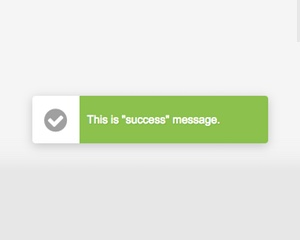
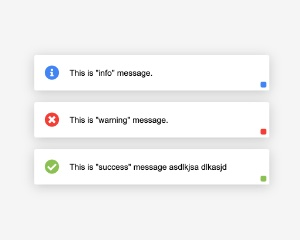
Added a new version of `j-Notify`.

diff --git a/j-Notify/component.js b/j-Notify/component.js
@@ -1,30 +1,34 @@
-COMPONENT('notify', 'timeout:3000;position:bottom', function(self, config) {
+COMPONENT('notify', 'timeout:3000;position:top-right', function(self, config, cls) {
 
+	var cls2 = '.' + cls;
+	var istop = false;
 	var autoclosing;
 
 	self.singleton();
 	self.readonly();
-	self.nocompile && self.nocompile();
-	self.template = Tangular.compile('<div class="ui-notify ui-notify-{{ type }}" data-id="{{ id }}"><div class="ui-notify-icon"><i class="fa {{ icon }}"></i></div><div class="ui-notify-message">{{ message | raw }}</div>');
+	self.nocompile();
+
+	self.template = Tangular.compile('<div class="{0} {0}-{{ type }} {0}-hidden" data-id="{{ id }}"><figure><div class="{0}-dot"></div><div class="{0}-icon"><i class="fa {{ icon }}"></i></div><div class="{0}-message">{{ message | raw }}</div></figure></div>'.format(cls));
 	self.items = {};
 
 	self.make = function() {
 
-		self.aclass('ui-notify-container');
+		self.aclass(cls + '-container');
 
-		self.event('click', '.ui-notify', function() {
+		self.event('click', cls2, function() {
 			var el = $(this);
-			self.close(+el.attrd('id'));
+			self.close(el.attrd('id'));
 			clearTimeout(autoclosing);
 			autoclosing = null;
 			self.autoclose();
 		});
 	};
 
-	self.configure = function(key, value, init) {
+	self.configure = function(key, value) {
 		if (key === 'position') {
-			var cls = 'ui-notify-container-';
-			self.rclass2(cls).aclass(cls + value.replace(/_|\s/, '-'));
+			var c = cls + '-container-';
+			self.rclass2(c).aclass(c + value.replace(/_|\s/, '-'));
+			istop = value.indexOf('top') !== -1;
 		}
 	};
 
@@ -33,13 +37,66 @@ COMPONENT('notify', 'timeout:3000;position:bottom', function(self, config) {
 		if (obj) {
 			delete self.items[id];
 			var item = self.find('div[data-id="{0}"]'.format(id));
-			item.aclass('ui-notify-hide');
-			setTimeout(function() {
+			item.find('figure').empty();
+			item.animate({ height: 0 }, 300, function() {
 				item.remove();
-			}, 600);
+			});
 		}
 	};
 
+	self.response = function(message, callback, response) {
+
+		var fn;
+
+		if (typeof(message) === 'function') {
+			response = callback;
+			fn = message;
+			message = null;
+		} else if (typeof(callback) === 'function')
+			fn = callback;
+		else {
+			response = callback;
+			fn = null;
+		}
+
+		if (response instanceof Array) {
+			var builder = [];
+			for (var i = 0; i < response.length; i++) {
+				var err = response[i].error;
+				err && builder.push(err);
+			}
+			self.append(builder.join('<br />'), 2);
+			SETTER('!loading/hide');
+		} else if (typeof(response) === 'string') {
+			self.append(response, 2);
+			SETTER('!loading/hide');
+		} else {
+
+			if (message) {
+				if (message.length < 40 && message.charAt(0) === '?')
+					SET(message, response);
+				else
+					self.append(message, 1);
+			}
+
+			if (typeof(fn) === 'string')
+				SET(fn, response);
+			else if (fn)
+				fn(response);
+		}
+	};
+
+	self.warning = function(message) {
+		self.append(message, 2);
+	};
+
+	self.success = function(message) {
+		self.append(message, 1);
+	};
+
+	self.info = function(message) {
+		self.append(message, 3);
+	};
 
 	self.append = function(message, type) {
 
@@ -58,13 +115,29 @@ COMPONENT('notify', 'timeout:3000;position:bottom', function(self, config) {
 				break;
 		}
 
+		var icon;
+
+		if (message.charAt(0) === '"') {
+			var index = message.indexOf('"', 1);
+			icon = self.faicon(message.substring(1, index).trim());
+			message = message.substring(index + 1).trim();
+		}
+
 		// type 1: success
 		// type 2: warning
+		// type 3: info
 
-		var obj = { id: Math.floor(Math.random() * 100000), message: message, type: type, icon: type === 1 ? 'fa-check-circle' : type === 2 ? 'fa-times-circle' : 'fa-info-circle' };
+		var obj = { id: Math.floor(Math.random() * 100000).toString(36), message: message, type: type, icon: icon || (type === 1 ? 'fa-check-circle' : type === 2 ? 'fa-times-circle' : 'fa-info-circle') };
 		self.items[obj.id] = obj;
-		self.element.append(self.template(obj));
+		var el = $(self.template(obj));
+		if (istop)
+			self.element.append(el);
+		else
+			self.element.prepend(el);
 		self.autoclose();
+		setTimeout(function() {
+			el.rclass(cls + '-hidden');
+		}, 20);
 	};
 
 	self.autoclose = function() {
@@ -75,9 +148,10 @@ COMPONENT('notify', 'timeout:3000;position:bottom', function(self, config) {
 		autoclosing = setTimeout(function() {
 			clearTimeout(autoclosing);
 			autoclosing = null;
-			var el = self.find('.ui-notify');
+			var el = self.find(cls2);
 			el.length > 1 && self.autoclose();
-			el.length && self.close(+el.eq(0).attrd('id'));
+			el.length && self.close(el.eq(istop ? 0 : (el.length - 1)).attrd('id'));
 		}, config.timeout);
+
 	};
 });

diff --git a/j-Notify/component.css b/j-Notify/component.css
@@ -1,19 +1,26 @@
-.ui-notify-container { position: fixed; width: 300px; z-index: 100; text-align: center; }
-.ui-notify { background-color: #FFF; box-shadow: 0 3px 20px rgba(0,0,0,0.2); border-radius: var(--radius); font-size: 14px; padding: 0; margin-top: 20px; transition: 0.5s all; color: #FFF; cursor: default; }
-.ui-notify-1 { background: #8CC152; }
-.ui-notify-2 { background: #BD3835; }
-.ui-notify-3 { background: #3BAFDA; }
-.ui-notify-icon { float: left; font-size: 34px; padding: 8px 0 0 0; width: 60px; text-align: center; height: 60px; background-color: #FFF; color: #A0A0A0; border-radius: var(--radius) 0 0 var(--radius); }
-.ui-notify-message { margin: 1px 0 0 60px; line-height: 16px; height: 60px; display: table-cell; width: 100%; vertical-align: middle; padding: 0 10px; text-shadow: 1px 1px 1px rgba(0,0,0,0.1); text-align: left; }
-.ui-notify-hide { opacity: 0; margin-top: -50px; }
+.ui-notify-container { position: fixed; max-width: 400px; z-index: 100; text-align: center; width: 100%; }
+.ui-notify { height: 80px; transition: 0.15s transform,opacity; transform: scale(1); transition-timing-function: ease-in; opacity: 1; }
+.ui-notify figure { background-color: #FFF; box-shadow: 0 3px 20px rgba(0,0,0,0.2); border-radius: var(--radius); font-size: 14px; padding: 0; color: #000; cursor: default; position: relative; height: 60px; display: block; }
+.ui-notify-dot { width: 10px; height: 10px; position: absolute; border-radius: var(--radius) var(--radius) var(--radius) var(--radius); right: 5px; bottom: 5px; }
+.ui-notify-1 .ui-notify-dot { background-color: #8CC152; }
+.ui-notify-2 .ui-notify-dot { background-color: #F43D35; }
+.ui-notify-3 .ui-notify-dot { background-color: var(--color); }
+.ui-notify-1 .ui-notify-icon { color: #8CC152; }
+.ui-notify-2 .ui-notify-icon { color: #F43D35; }
+.ui-notify-3 .ui-notify-icon { color: var(--color); }
+.ui-notify-icon { float: left; font-size: 25px; padding: 0 0 0 10px; width: 50px; text-align: center; height: 60px; line-height: 60px; border-radius: var(--radius) 0 0 var(--radius); }
+.ui-notify-message { margin: 1px 0 0 60px; line-height: 16px; height: 60px; display: table-cell; width: 100%; vertical-align: middle; padding: 0 10px; text-align: left; }
+.ui-notify-hidden { transform: scale(0.7); opacity: 0.1; }
 
-.ui-notify-container-top { left: 50%; margin-left: -150px; top: 0; }
-.ui-notify-container-top-left { left: 25px; top: 0; }
-.ui-notify-container-top-right { right: 25px; top: 0; }
-.ui-notify-container-bottom { bottom: 30px; left: 50%; margin-left: -150px; }
-.ui-notify-container-bottom-left { bottom: 30px; left: 25px; }
-.ui-notify-container-bottom-right { bottom: 30px; right: 25px; }
+.ui-notify-container-top { left: 50%; margin-left: -200px; top: 20px; }
+.ui-notify-container-top-left { left: 25px; top: 20px; }
+.ui-notify-container-top-right { right: 25px; top: 20px; }
+.ui-notify-container-bottom { bottom: 10px; left: 50%; margin-left: -150px; }
+.ui-notify-container-bottom-left { bottom: 10px; left: 25px; }
+.ui-notify-container-bottom-right { bottom: 10px; right: 25px; }
 
 @media(max-width: 767px) {
 	.ui-notify-container { left: 20px; right: 20px; margin-left: 0; width: auto; }
 }
+
+.ui-dark .ui-notify figure { background-color: #444; box-shadow: 0 3px 20px rgba(0,0,0,0.3); color: #FFF; }

diff --git a/j-Notify/dependencies.html b/j-Notify/dependencies.html
@@ -1,2 +1,2 @@
-<link href="https://cdn.componentator.com/spa.min@17.css" rel="stylesheet" type="text/css" />
-<script src="https://cdn.componentator.com/spa.min@17.js"></script>
+<link href="https://cdn.componentator.com/spa.min@18.css" rel="stylesheet" type="text/css" />
+<script src="https://cdn.componentator.com/spa.min@18.js"></script>

diff --git a/j-Notify/readme.md b/j-Notify/readme.md
@@ -6,17 +6,38 @@
 __Configuration__:
 
 - `timeout` {Number} has to contain a timeout (milliseconds) for the expiration of notification (default: `3000`)
-- `position` {String} can be `top`, `top left`, `top right`, `bottom` (default), `bottom left` and `bottom right`
+- `position` {String} can be `top`, `top left`, `top right` (default), `bottom` , `bottom left` and `bottom right`
 
 __Methods__:
 
-- `component.append(icon, message, [type])` for creating a new notification
+```js
+SETTER('notify/warning', 'Some warning');
+SETTER('notify/success', 'Some success message');
+SETTER('notify/info', 'Some info message');
+```
 
-__Types__:
+__Works with ASETTER__:
 
-- type `1`: success message (green)
-- type `2`: warning message (red)
-- type `3`: info message (blue)
+- errors are handled automatically
+
+```js
+// Without callback
+AJAX('POST /api/profile/', userprofile, ASETTER('notify/response', 'Profile has been saved successfully'));
+
+// Or with a callback
+AJAX('POST /api/profile/', userprofile, ASETTER('notify/response', 'Profile has been saved successfully', function(response) {
+	console.log(response);
+}));
+
+// Or with a callback and without notify
+AJAX('POST /api/profile/', userprofile, ASETTER('notify/response', function(response) {
+	console.log(response);
+}));
+
+// With auto-binding
+AJAX('POST /api/profile/', userprofile, ASETTER('notify/response', '?.response'));
+AJAX('POST /api/profile/', userprofile, ASETTER('notify/response', 'Your message', '?.response'));
+````
 
 ### Author
 
